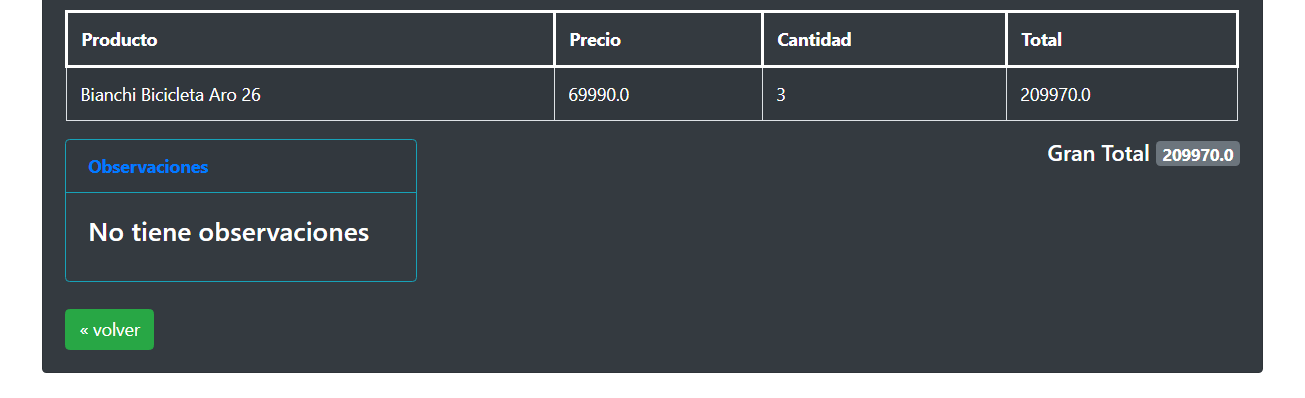
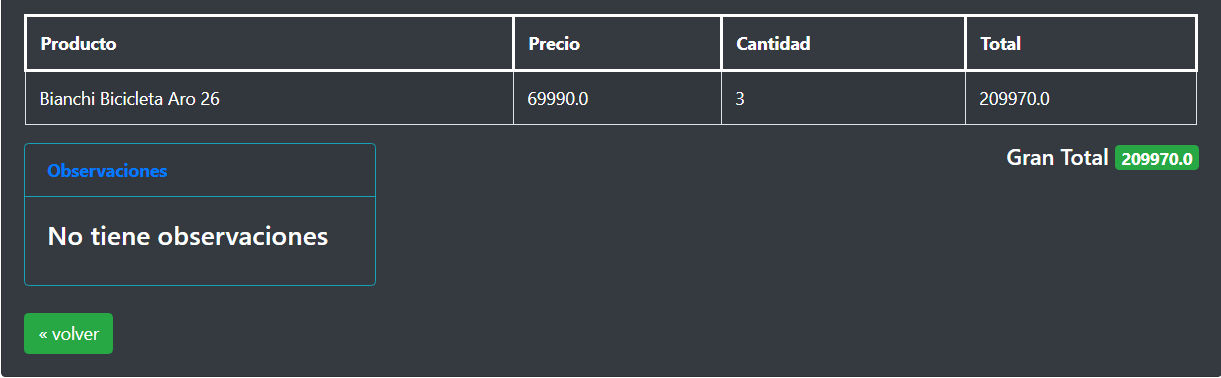
success image

diff --git a/src/main/resources/templates/factura/ver.html b/src/main/resources/templates/factura/ver.html
@@ -48,7 +48,7 @@
 					</tbody>
 				</table>
 				
-				<h5 class="float-right">Gran Total <span th:text="${factura.total}" class="badge badge-secondary"></span> 
+				<h5 class="float-right">Gran Total <span th:text="${factura.total}" class="badge badge-success"></span> 
 				</h5>
 				
 				<div class="card border-info mb-4 card bg-dark text-white" style="max-width: 20rem;">
